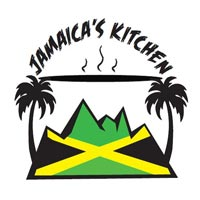
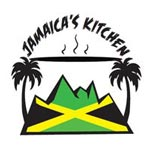
Govt Mule sold out Added GAD activity station images Made GAD vendor images smaller updated GAD activity station page

diff --git a/garden-after-dark.html b/garden-after-dark.html
@@ -204,56 +204,143 @@ published: true
 
     <div class="col-sm-12">
 
-			      <h4 class="text-left green">Prologue: Quest for the Curiosity Key Gems</h4>
+		<h4 class="text-left green">Prologue: Quest for the Curiosity Key Gems</h4>
 
-			      <p class="text-left">Before embarking on your adventure, pick up your family guide to Wonderland and your Curiosity Key outside the Visitor Center. You’ll need the Curiosity Key to unlock the Looking Glass, a magic portal you can use to leave Wonderland and return to the real world. But your key is missing its four magic gems! Rumor has it that four of Wonderland's most famous citizens have the missing gems. Visit each Wonderlandian, complete a simple task for him or her, and you'll be rewarded with a missing gem. Can you collect the missing gems, find the Looking Glass, and return home before the night is over?</p>
-			<hr>
+		<p class="text-left">Before embarking on your adventure, pick up your family guide to Wonderland and your Curiosity Key outside the Visitor Center. You’ll need the Curiosity Key to unlock the Looking Glass, a magic portal you can use to leave Wonderland and return to the real world. But your key is missing its four magic gems! Rumor has it that four of Wonderland's most famous citizens have the missing gems. Visit each Wonderlandian, complete a simple task for him or her, and you'll be rewarded with a missing gem. Can you collect the missing gems, find the Looking Glass, and return home before the night is over?</p>
+<hr>
+<div class="row">
 
-      <h4 class="text-left green">Chapter 1: Down the Rabbit Hole</h4>
+	<div class="col-sm-2">
+		<img src="/images/misc/gad/rabbit.jpg" alt="Rabbit" title="Rabbit" class="responsive"/>
+	</div>
 
-      <p class="text-left">Follow the White Rabbit down the rabbit hole to discover the magic entrance to Wonderland. Keep your eyes open for flying clocks, floating bookshelves, magic keys, and more as you travel from the real world to the wondrous world of Wonderland. What secrets about the natural world will you uncover along the way?</p>
-  <hr>
+	<div class="col-sm-10">
 
-    <h4 class="text-left green">Chapter 2: Conversation with the Caterpillar | &#9827 Gem Stop</h4>
-    <p class="text-left">Filled with wisdom and sage advice, no trip to Wonderland is complete without a visit to the Caterpillar, Wonderland’s resident mushroom and fungi expert. Start your quest to complete your Curiosity Key by investigating some of the strange, unusual, and downright magical fungi found in the Caterpillar’s collection. Then, show the Caterpillar what you've learned by decorating your own incredible shrinking mushroom charm and he will reward you with your first gem.</p>
+    <h4 class="text-left green">Chapter 1: Down the Rabbit Hole</h4>
+
+    <p class="text-left">Follow the White Rabbit down the rabbit hole to discover the magic entrance to Wonderland. Keep your eyes open for flying clocks, floating bookshelves, magic keys, and more as you travel from the real world to the wondrous world of Wonderland. What secrets about the natural world will you uncover along the way?</p>
+
+	</div>
+
+	</div>
 
 <hr>
+
+<div class="row">
+
+	<div class="col-sm-2">
+		<img src="/images/misc/gad/mushroom.jpg" alt="Mushroom" title="Mushroom" class="responsive"/>
+	</div>
+
+	<div class="col-sm-10">
+
+		<h4 class="text-left green">Chapter 2: Conversation with the Caterpillar | &#9827 Gem Stop</h4>
+    <p class="text-left">Filled with wisdom and sage advice, no trip to Wonderland is complete without a visit to the Caterpillar, Wonderland’s resident mushroom and fungi expert. Start your quest to complete your Curiosity Key by investigating some of the strange, unusual, and downright magical fungi found in the Caterpillar’s collection. Then, show the Caterpillar what you've learned by decorating your own incredible shrinking mushroom charm and he will reward you with your first gem.</p>
+
+	</div>
+
+	</div>
+
+<hr>
+
+<div class="row">
+
+	<div class="col-sm-2">
+		<img src="/images/misc/gad/mad-hatter.jpg" alt="Mad Hatter" title="Mad Hatter" class="responsive"/>
+	</div>
+
+	<div class="col-sm-10">
+
     <h4 class="text-left green">Chapter 3: The Mad Hatter's Tea Party | &#9830 Gem Stop</h4>
     <p class="text-left">Put on your swankiest hat and get ready to party with the Mad Hatter, Wonderland’s premiere supplier of fancy hats and herbal teas. While you're here, explore which plants can be made into herbal teas and discover how they can be used to soothe a sore throat, to relieve a headache, and more. Then, play one of the Mad Hatter's party games, including Flamingo Croquet, Tea Bean Bag Toss, and more to win your next Curisoity Key Gem.</p>
 
+	</div>
+
+	</div>
+
 <hr>
+
+<div class="row">
+
+	<div class="col-sm-2">
+		<img src="/images/misc/gad/dodo.jpg" alt="Dodo" title="Dodo" class="responsive"/>
+	</div>
+
+	<div class="col-sm-10">
+
     <h4 class="text-left green">Chapter 4: The Dodo's Nest</h4>
     <p class="text-left">Take a break from your adventure at the Dodo’s Nest. Warm yourself by the fire cauldron and listen to a story from Ginger Parkinson, a member of the Storytellers Guild of Utah, before continuing on your journey.</p>
 
+	</div>
+
+	</div>
+
 <hr>
+
+<div class="row">
+
+	<div class="col-sm-2">
+		<img src="/images/misc/gad/cheshire-cat.jpg" alt="Cheshire Cat" title="Cheshire Cat" class="responsive"/>
+	</div>
+
+	<div class="col-sm-10">
+
     <h4 class="text-left green">Chapter 5: The Cheshire Cat's Forest of Riddles</h4>
     <p class="text-left">Something is hiding in the trees of the Garden, and it looks like a large cat with a mischievous smile! Can you solve the riddles and find the clues to catch the Cheshire Cat and make it through the forest?</p>
+
+	</div>
+
+	</div>
 
 <hr>
     <h4 class="text-left green">Chapter 6: Bill the Lizard's Living Flower Patch | &#9824 Gem Stop</h4>
     <p class="text-left">You can learn an awful lot from the flowers because flowers in Wonderland talk! Stop in at Bill the Lizard’s Living Flower Patch to learn how flowers use different adaptations to attract pollinators. After, use what you’ve learned to craft your own Wonderland pollinator you can use on a hunt to find the six larger-than-life living flowers scattered throughout the Terrace Gardens. Can you find all six flowers and earn your third Curiosity Key Gem?</p>
 
 <hr>
-    <h4 class="text-left green">Chapter 7: Audience with the Queen | &#9829 Gem Stop</h4>
+
+<div class="row">
+
+	<div class="col-sm-2">
+		<img src="/images/misc/gad/rose.jpg" alt="Rose" title="Rose" class="responsive"/>
+	</div>
+
+	<div class="col-sm-10">
+
+		<h4 class="text-left green">Chapter 7: Audience with the Queen | &#9829 Gem Stop</h4>
     <p class="text-left">Finish your quest at the palace of the Queen of Hearts. During your audience with the Queen, you’ll discover not only how her Wonderland roses change colors from white to red but also how some real-world roses, hydrangeas, and other plants can shapeshift and change colors, too. Then, use your new knowledge to weave a color-changing tassel to decorate a special bookmark. If you impress the Queen with your skills, you just might earn your fourth and final Curiosity Key Gem.</p>
 
+	</div>
+
+</div>
+
 <hr>
-        <h4 class="text-left green">Chapter 8: Through the Looking Glass</h4>
-        <p class="text-left">With all four gems back on your Curiosity Key, you're ready to use it to open the Looking Glass and return to the real world. Once you're back, tell us about your adventures and help us complete our Wonderland Mural to commemorate the night. We'll thank you for joining us in Wonderland with a special prize you can use to continue your adventures in the natural world at home.</p>
+    <h4 class="text-left green">Chapter 8: Through the Looking Glass</h4>
+    <p class="text-left">With all four gems back on your Curiosity Key, you're ready to use it to open the Looking Glass and return to the real world. Once you're back, tell us about your adventures and help us complete our Wonderland Mural to commemorate the night. We'll thank you for joining us in Wonderland with a special prize you can use to continue your adventures in the natural world at home.</p>
 
-      <hr>
-        <h4 class="text-left green">Appendix A: Eye Spy the White Rabbit</h4>
-        <p class="text-left">As you travel around Wonderland, keep track of how many White Rabbits you find hidden throughout the Garden. At the end of the night, enter your guess to win one of six complimentary Family Memberships. How many White Rabbits can you find?</p>
+<hr>
 
-        <hr>
-          <h4 class="text-left green">Appendix B: Picture Perfect Story Stops</h4>
-          <p class="text-left">Get your camera ready! During your quest, you may come across a few iconic scenes from <i>Alice’s Adventures in Wonderland by Lewis Carroll</i>. When you find one, feel free to stop and snap a picture to remember your adventure in Wonderland!</p>
+<div class="row">
 
-            <hr>
-              <h4 class="text-left green">Appendix C: Fire Barrels</h4>
-              <p class="text-left">Stop and ask for directions to the next stop on your Wonderland adventure! Our friendly volunteers provide general information and advice as well as a spot to warm up before continuing on your journey.</p>
+	<div class="col-sm-2">
+		<img src="/images/misc/gad/pocket-watch.jpg" alt="Pocket Watch" title="Pocket Watch" class="responsive"/>
+	</div>
 
+	<div class="col-sm-10">
 
+    <h4 class="text-left green">Appendix A: Eye Spy the White Rabbit</h4>
+    <p class="text-left">As you travel around Wonderland, keep track of how many White Rabbits you find hidden throughout the Garden. At the end of the night, enter your guess to win one of six complimentary Family Memberships. How many White Rabbits can you find?</p>
+
+	</div>
+
+	</div>
+
+<hr>
+      <h4 class="text-left green">Appendix B: Picture Perfect Story Stops</h4>
+      <p class="text-left">Get your camera ready! During your quest, you may come across a few iconic scenes from <i>Alice’s Adventures in Wonderland by Lewis Carroll</i>. When you find one, feel free to stop and snap a picture to remember your adventure in Wonderland!</p>
+
+<hr>
+      <h4 class="text-left green">Appendix C: Fire Barrels</h4>
+      <p class="text-left">Stop and ask for directions to the next stop on your Wonderland adventure! Our friendly volunteers provide general information and advice as well as a spot to warm up before continuing on your journey.</p>
 
       </div>
 

diff --git a/concerts.html b/concerts.html
@@ -1579,7 +1579,7 @@ published: true
 						<div class="bandpic hover">
 							<img src="/images/concert-images/2017/2017-30.jpg" alt="Gov't Mule at Red Butte Garden" title="Gov't Mule at Red Butte Garden">
 
-							<div class="soldout hide">
+							<div class="soldout">
 								<img src="/images/concert-images/SoldOut.png">
 							</div>
 
